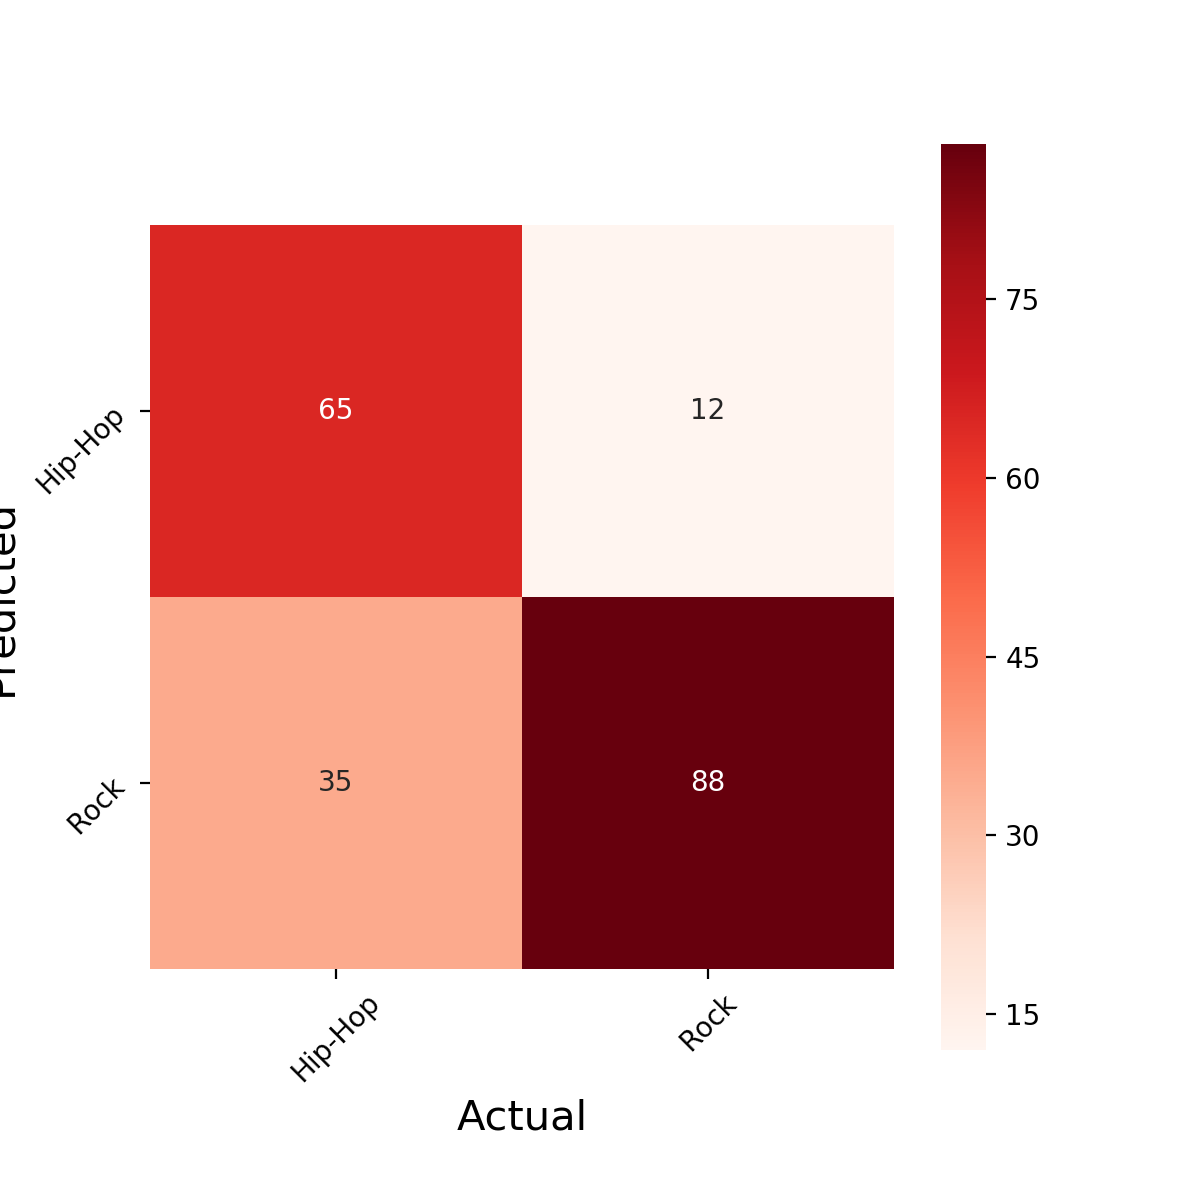
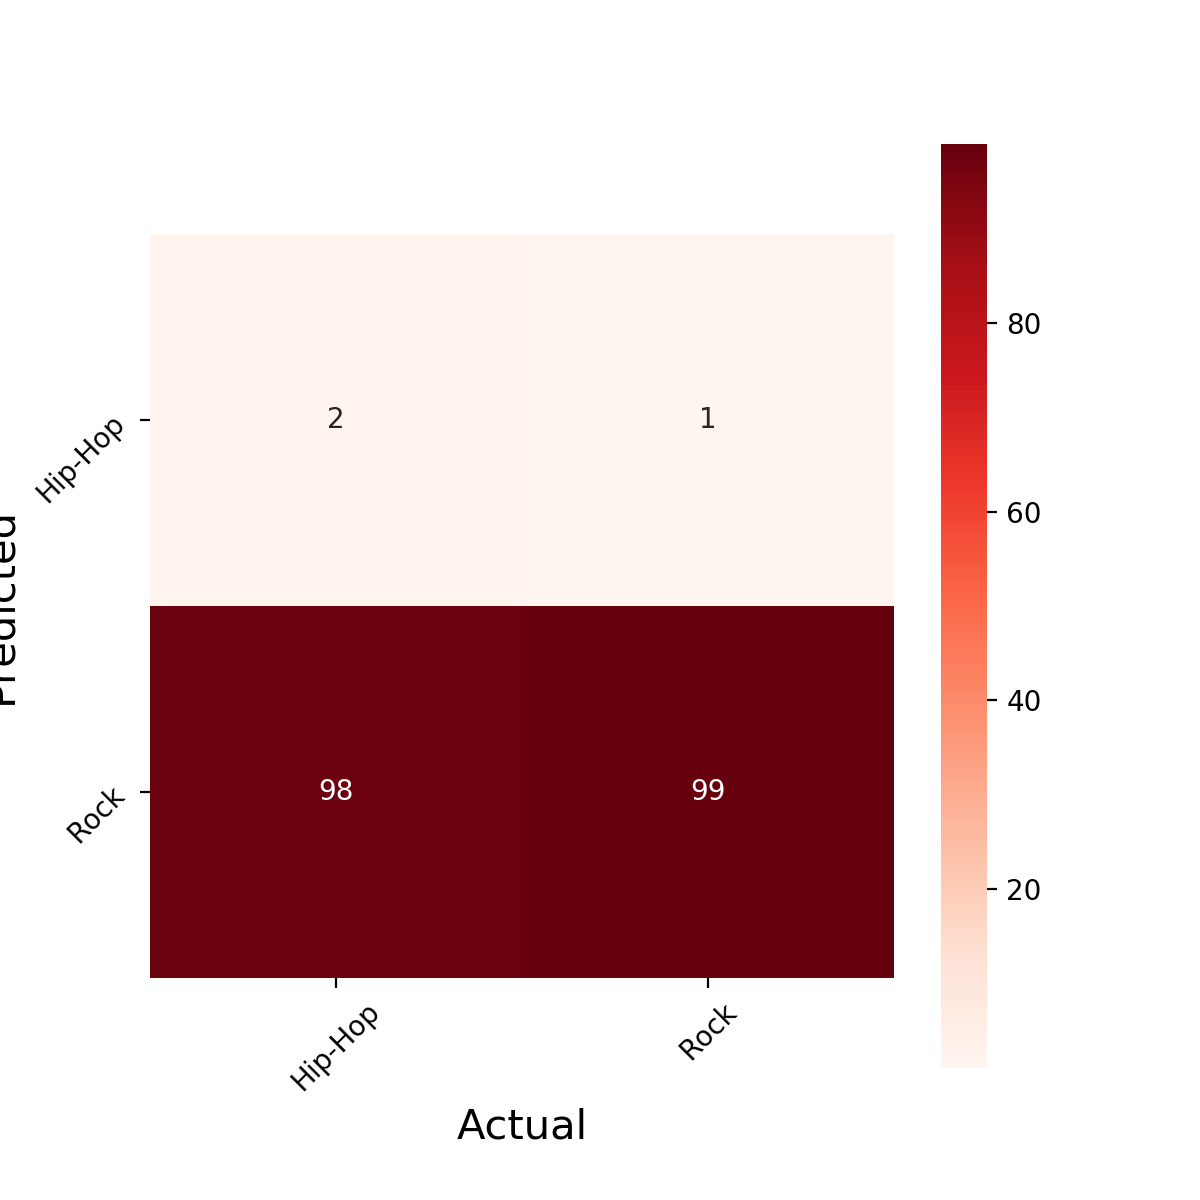
Test model script

diff --git a/run_model.py b/run_model.py
@@ -1,25 +1,20 @@
-import sys
 import os
 import numpy as np
-import pandas as pd
 import warnings
-import matplotlib.pyplot as plt
-from pathlib import Path
-
 warnings.filterwarnings('ignore')
-sys.path.append('./src')
 
-from utils import DataGenerator
+from sklearn.metrics import classification_report
+
+from src.datagen import DataGenerator
+from src.utils import get_ytrue_ypred_targets, save_confusion_matrix, save_summary_plots
 
 import tensorflow as tf
-from tensorflow.keras import backend, regularizers
-from tensorflow.keras.models import Sequential, Model
+from tensorflow.keras.models import Sequential
 from tensorflow.keras.layers import Conv1D, Conv2D, Dense, Dropout, \
                                     Activation, MaxPooling2D, Flatten, \
                                     BatchNormalization, GlobalAveragePooling2D
-from tensorflow.keras.callbacks import ModelCheckpoint, TensorBoard, ReduceLROnPlateau
-from tensorflow.keras.optimizers import Adam, RMSprop
-from tensorflow.keras.utils import to_categorical
+from tensorflow.keras.callbacks import ModelCheckpoint, ReduceLROnPlateau, EarlyStopping
+from tensorflow.keras.optimizers import Adam
 
 
 
@@ -45,7 +40,7 @@ def build_model():
     model.add(Dense(units = 64, activation = 'relu'))
     model.add(Dropout(0.3))
 
-    model.add(Dense(units = 3, activation = 'softmax'))
+    model.add(Dense(units = 2, activation = 'softmax'))
 
     opt = Adam(lr=0.001)
     model.compile(loss='categorical_crossentropy',
@@ -54,20 +49,25 @@ def build_model():
 
     return model
 
-def get_cb_list():
-    checkpoint_callback = ModelCheckpoint('../models/model2_with_datagen_best_val_loss.h5', 
-                                        monitor='val_loss', mode='min',
-                                        save_best_only=True, verbose=0)
+def get_cb_list(name):
+    earlystop_callback = EarlyStopping(monitor='val_loss', mode='min', 
+                                       patience=6, min_delta=0.005, verbose=1,   
+                                       restore_best_weights=True)
+    
+    checkpoint_callback = ModelCheckpoint(f'./models/{name}_weights_best_val_loss.h5', 
+                                          monitor='val_loss', mode='min',
+                                          save_best_only=True, verbose=1)
 
     reducelr_callback = ReduceLROnPlateau(monitor='val_loss', mode='min', factor=0.8, 
-                                        patience=2, min_delta=0.005, verbose=1)
+                                          patience=2, min_delta=0.005, verbose=1)
 
-    callbacks_list = [checkpoint_callback, reducelr_callback]
+    callbacks_list = [checkpoint_callback, reducelr_callback, earlystop_callback]
 
     return callbacks_list
 
 
-def get_datagens(include=['Rock', 'Hip-Hop'], splits=['training', 'validation', 'test'], 
+def get_datagens(include=['Rock', 'Hip-Hop'], 
+                 splits=['training', 'validation', 'test'], 
                  bs=[64,16,1]):
     datagens = []
     test = False
@@ -76,7 +76,7 @@ def get_datagens(include=['Rock', 'Hip-Hop'], splits=['training', 'validation', 
         if 'test' in split:
             test = True
 
-        datagen = DataGenerator('../data/'+split, include=include, 
+        datagen = DataGenerator('./data/'+split, include=include, 
                                 batch_size=bs, dim=(128,640), 
                                 n_channels=1, test=test)
 
@@ -85,21 +85,34 @@ def get_datagens(include=['Rock', 'Hip-Hop'], splits=['training', 'validation', 
     return tuple(datagens)
 
 
-def main():
+def main(name='model3'):
     # Build model
     model = build_model()
 
     # Get callbacks
-    cbs = get_cb_list()
-    
+    cbs = get_cb_list(name)
+
     # Get datagens
-    train_datagen, valid_datagen, test_datagen = get_datagens()
+    train_dg, valid_dg, test_dg = get_datagens(include=['Rock', 'Hip-Hop'], 
+                                               splits=['training', 'validation', 'test'], 
+                                               bs=[64,16,1])
+
+    # Train
+    history = model.fit_generator(generator=train_dg, epochs=100,
+                                  validation_data=valid_dg, verbose=0, 
+                                  callbacks=cbs)
+
+    # Save
+    model.save(f'./models/{name}_arch_and_weights.h5')
+    save_summary_plots(history, fpath=f'./images/{name}_summary.png')
+    y_true, y_pred, target_names = get_ytrue_ypred_targets(model, test_dg)
+    save_confusion_matrix(y_true, y_pred, target_names, fpath=f'./images/{name}_cm.png')
+    
+    # Print
+    acc = model.evaluate_generator(test_dg)[1]
+    print('Accuracy on test: {:.2f}%\n'.format(acc*100))
+    print(classification_report(y_true, y_pred, target_names=target_names))
 
     
-    history = model.fit_generator(generator=datagen, epochs=25,
-                                  validation_data=valid_datagen, verbose=1, 
-                                  callbacks=callbacks_list)
-
-
 if __name__ == "__main__":
     main()
